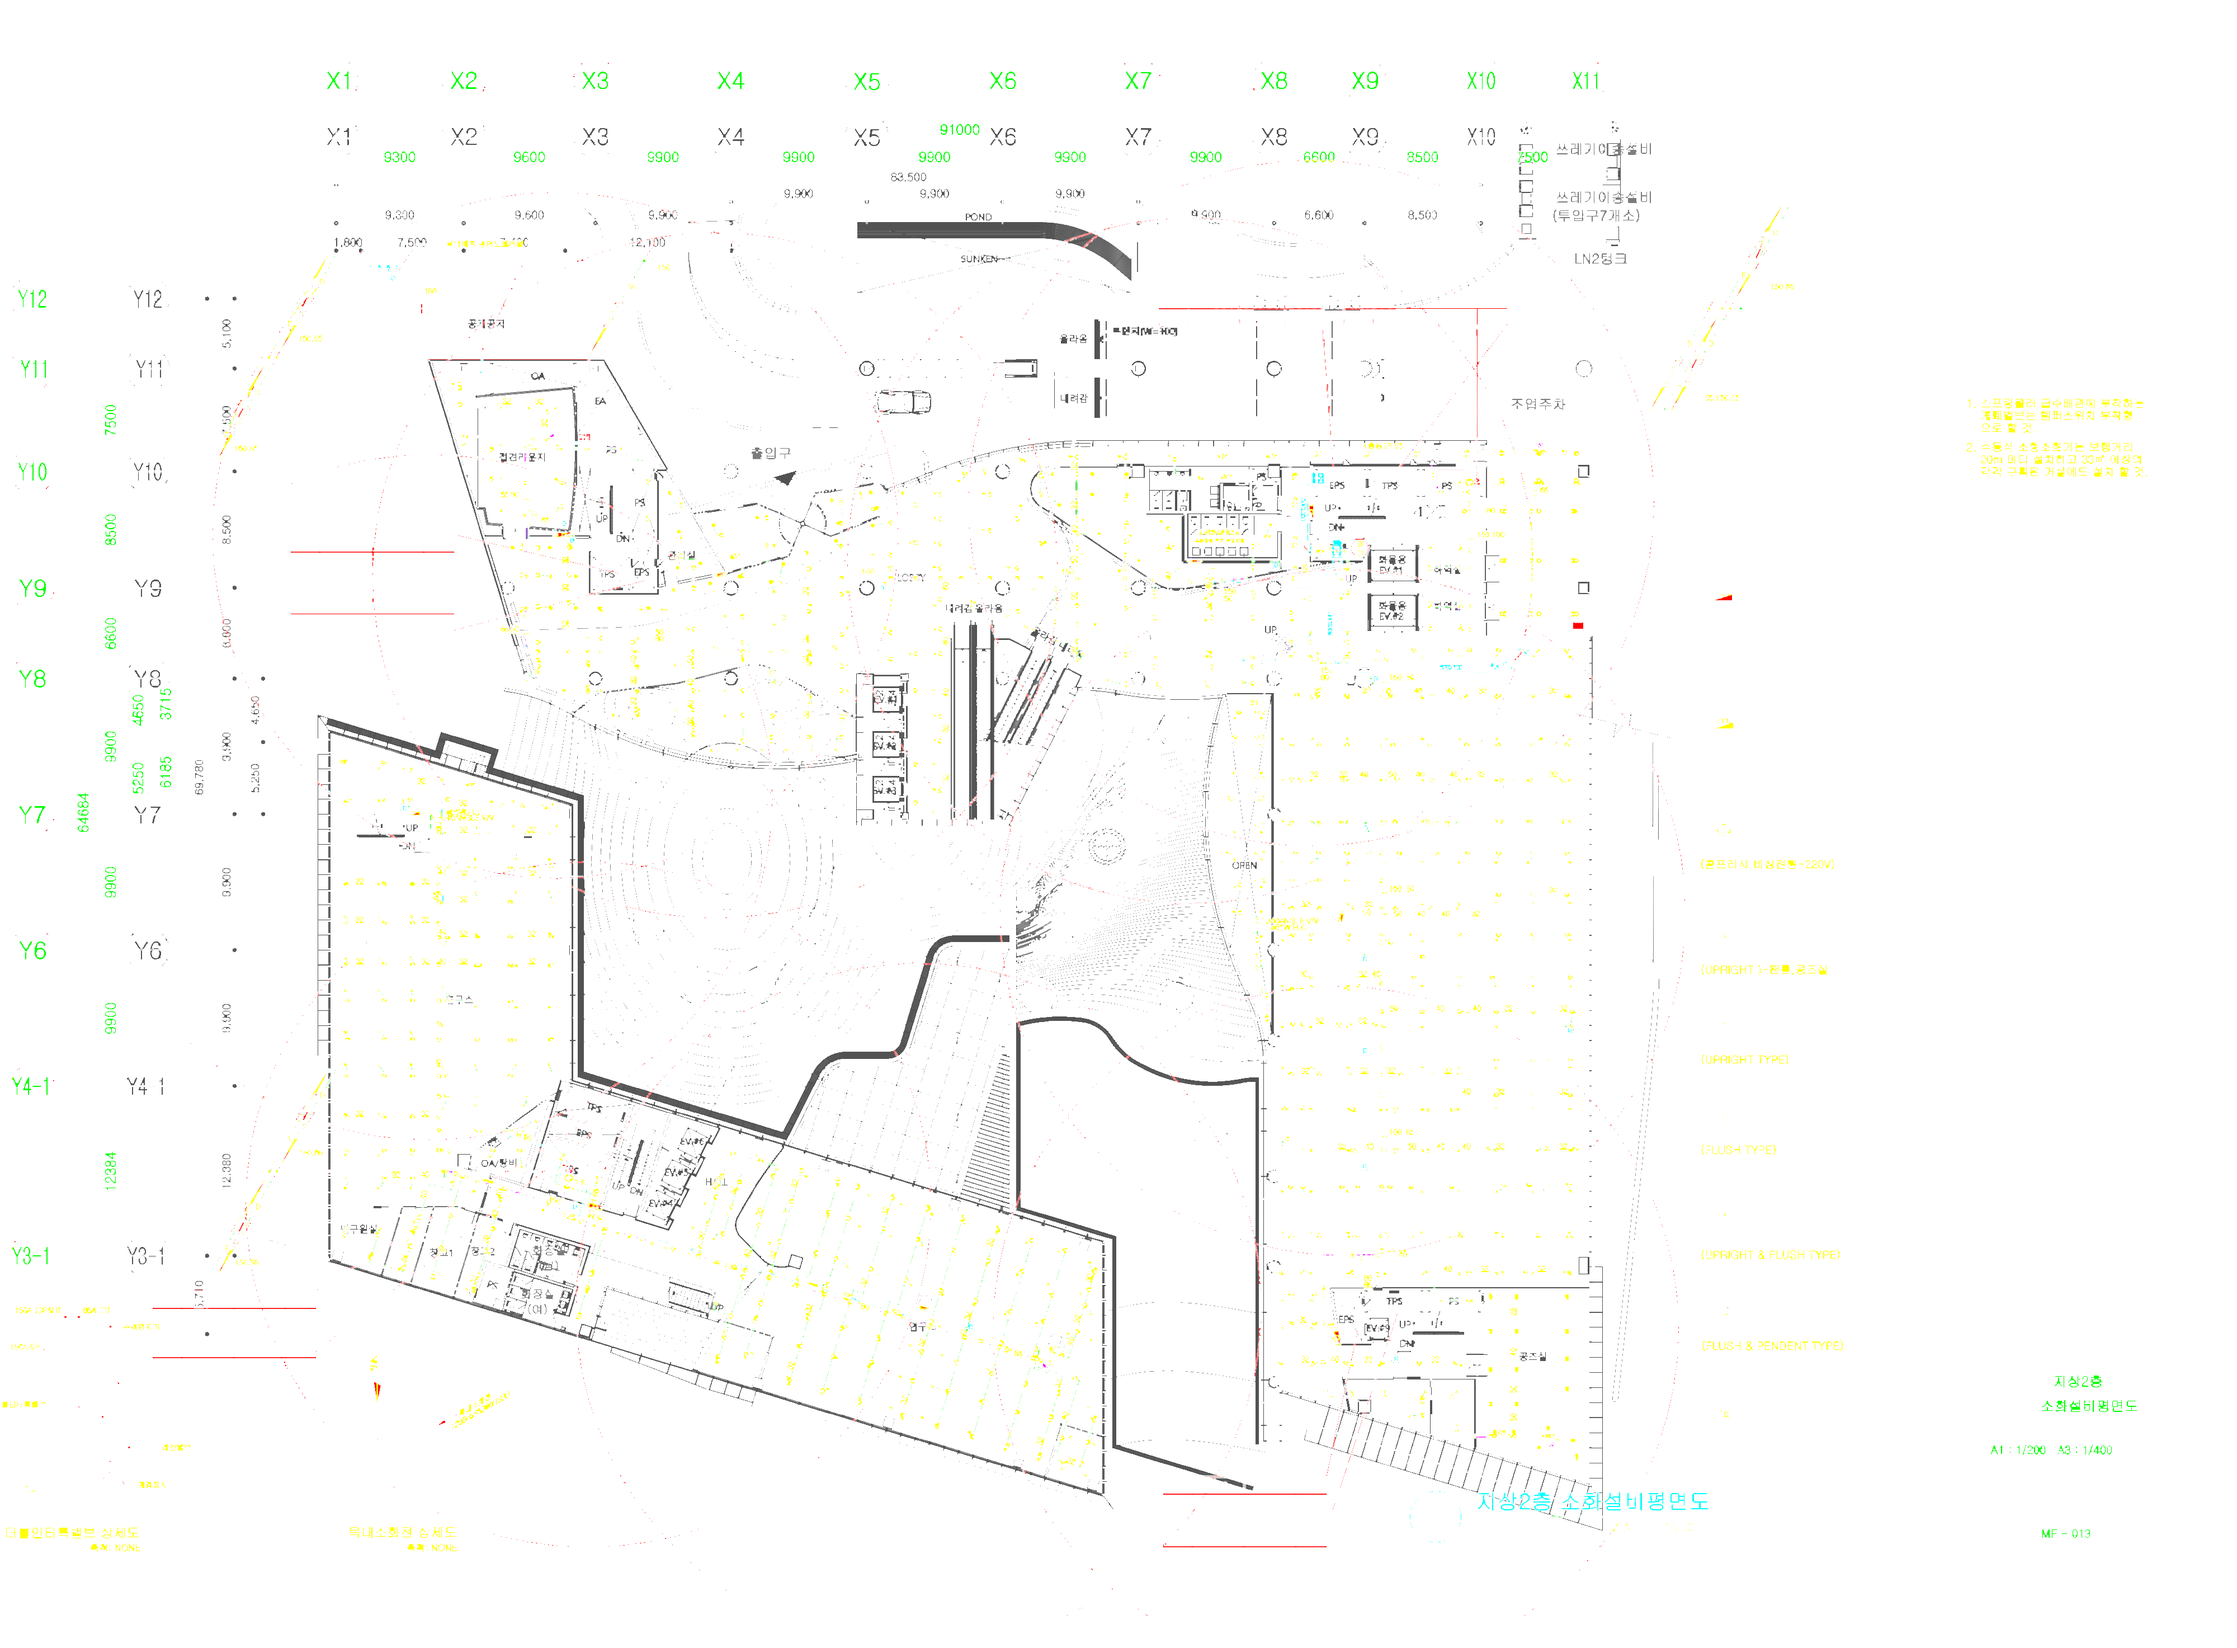
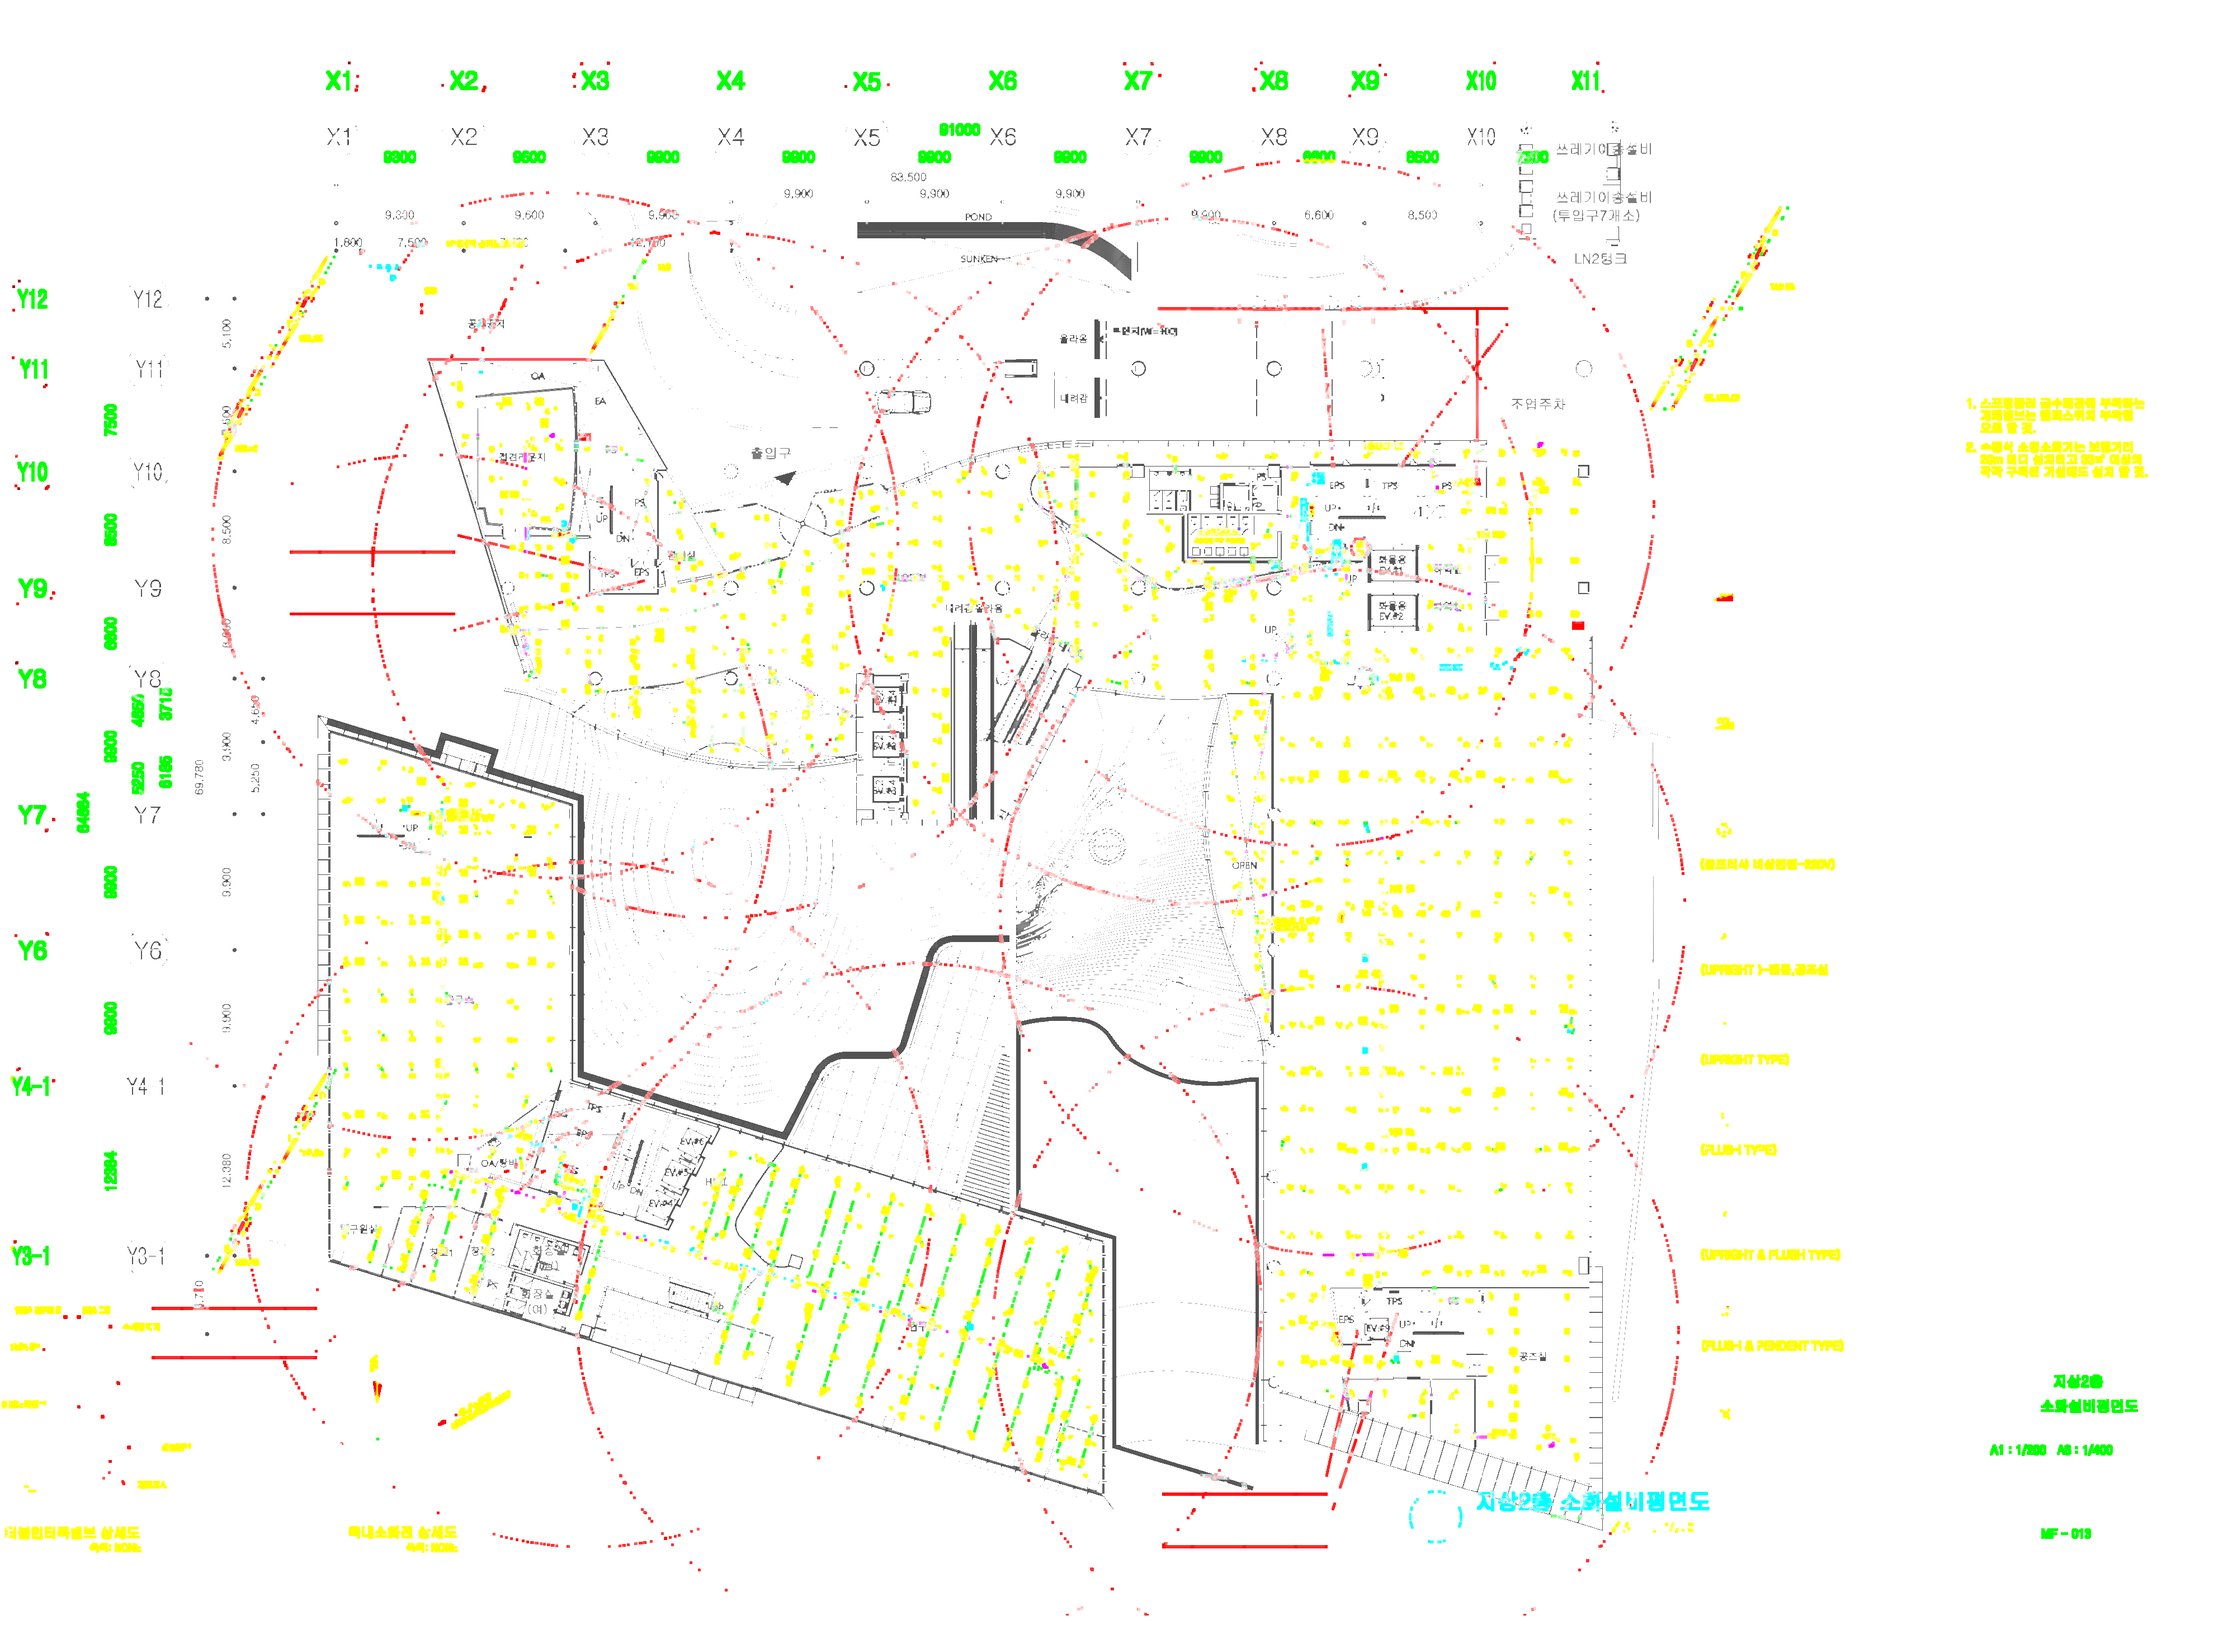
fix(floorplan): 2F PNG 컬러 라인 추가 dilation (1F 컬러 픽셀 비율 매칭)
- PDF 자체 컬러 라인이 1F 원본 대비 1/4 두께라 페이지 다크 bg 위에서 묻힘
- 그레이 dilation +1px 후 컬러 영역만 추가 +2px dilation
- 컬러 라인 픽셀: 0.83% → 3.97% (1F: 3.67% 매칭)
- ?v=13 → ?v=14

diff --git a/cha-bio-safety/src/pages/FloorPlanPage.tsx b/cha-bio-safety/src/pages/FloorPlanPage.tsx
@@ -277,7 +277,7 @@ function MarkerIcon({
 
 // ── 도면 파일 경로 ──────────────────────────────────────
 function getFloorPlanUrl(planType: PlanType, floor: string) {
-  return `/floorplans/${planType}/${floor}.png?v=13`
+  return `/floorplans/${planType}/${floor}.png?v=14`
 }
 
 // ══════════════════════════════════════════════════════
